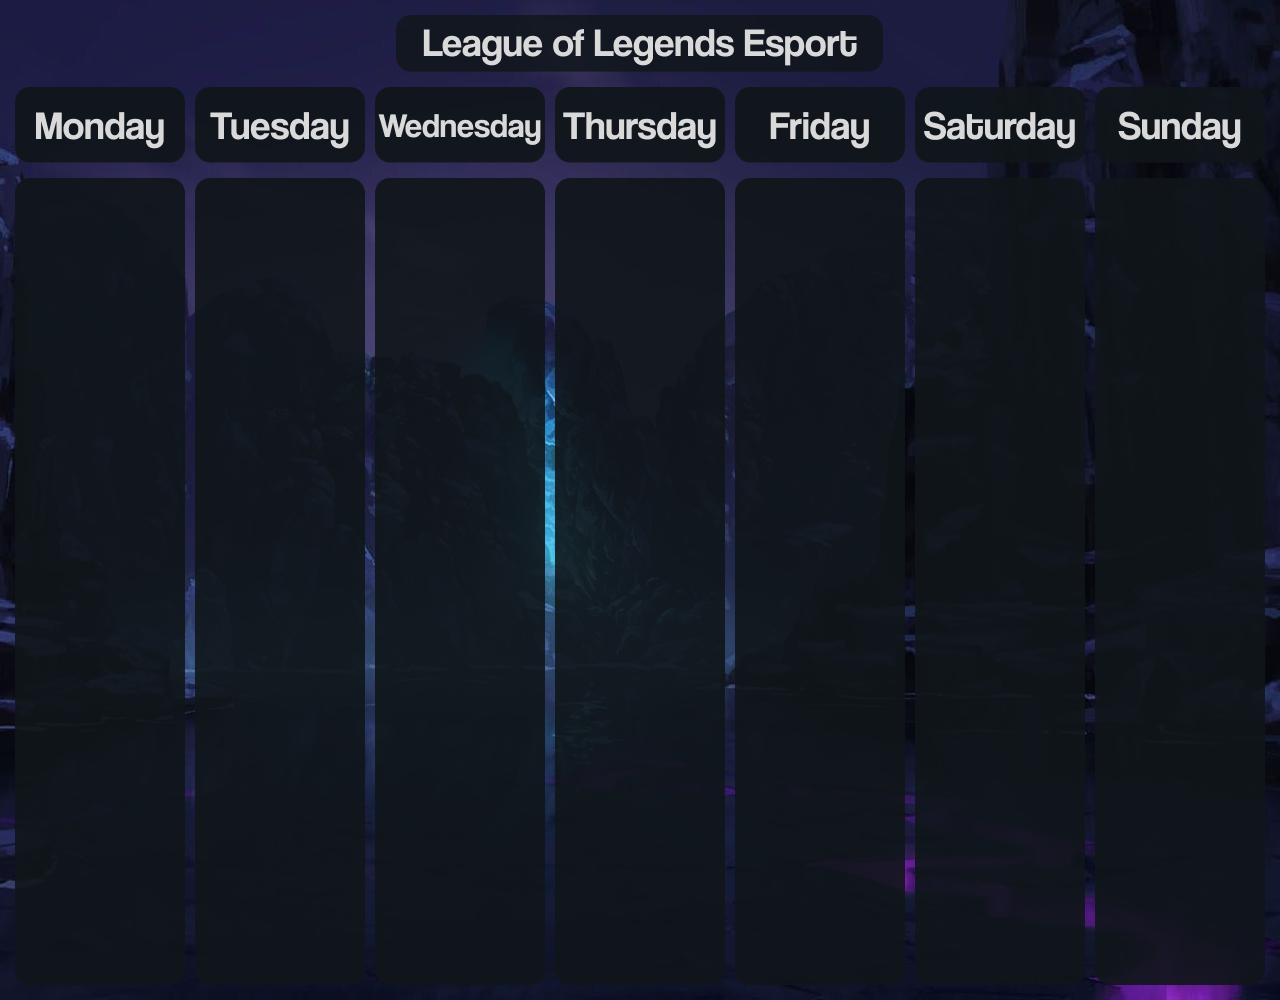
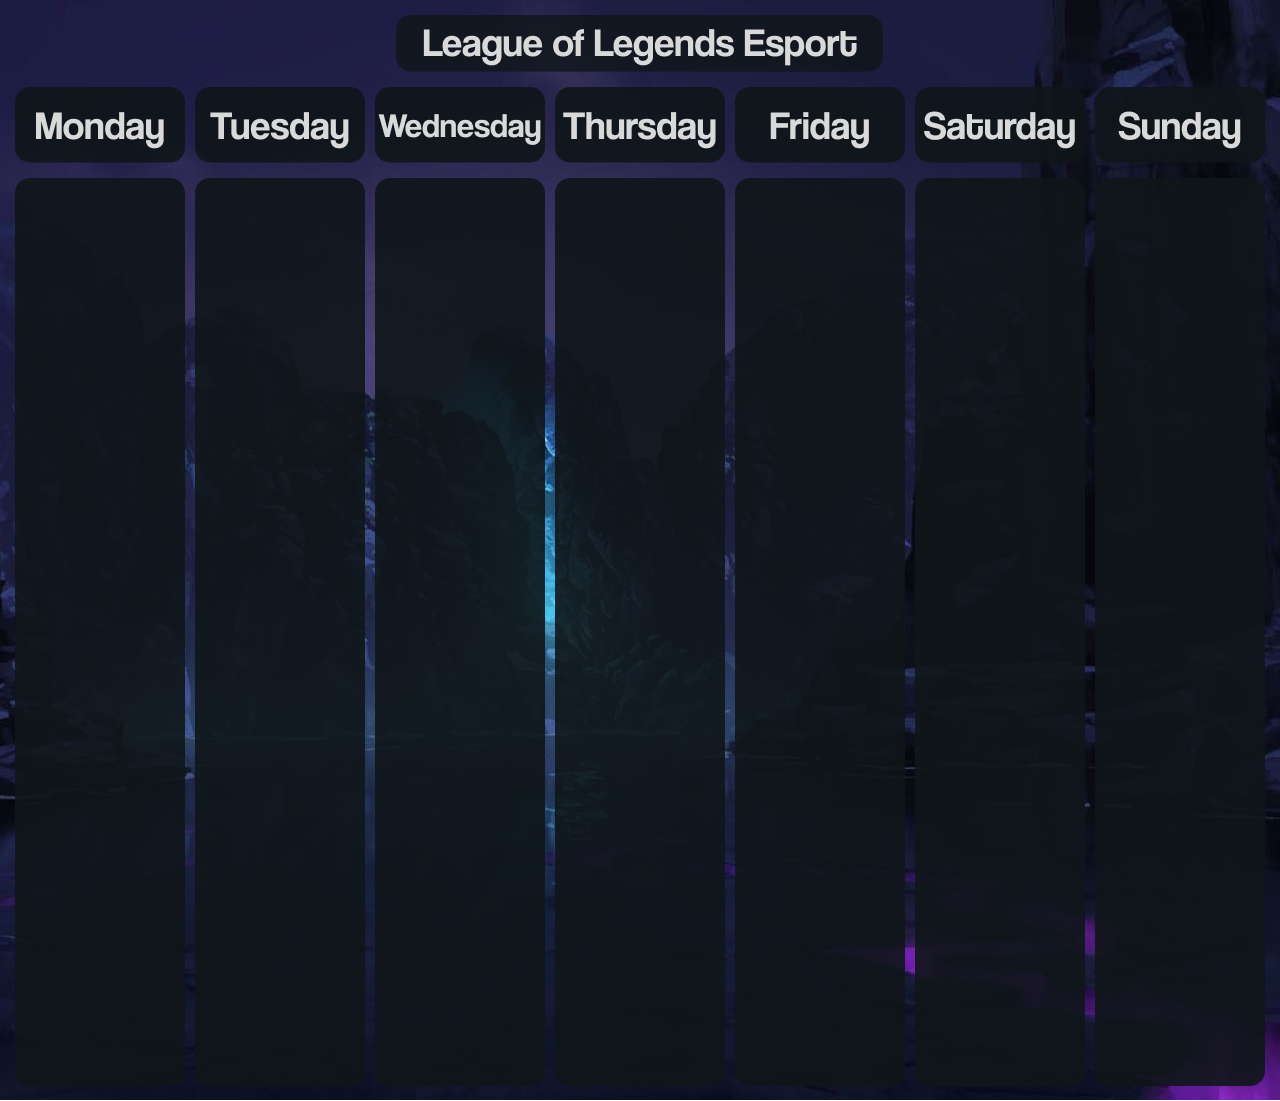
[ADD] refresh planning

diff --git a/bot/utils/sendPlanning.py b/bot/utils/sendPlanning.py
@@ -1,0 +1,87 @@
+import datetime
+from io import BytesIO
+import logging
+
+import discord
+from utils.planningFormattor import getFormattedPlanning
+
+from utils.types import Setup
+
+_logger = logging.getLogger(__name__)
+
+
+def getSchedulesByDayOnCurrentWeek(schedules: list[dict]):
+    today = datetime.date.today()
+    startOfWeek = today - datetime.timedelta(days=today.weekday())
+    weekSchedules = [startOfWeek]
+    weekSchedules.extend([startOfWeek + datetime.timedelta(days=i)
+                         for i in range(1, 7)])
+    weekGames: dict[str, list[dict]] = {}
+    for schedule in schedules:
+        date = datetime.date.fromisoformat(
+            schedule.get('startTime', '').split('T')[0])
+        if date in weekSchedules:
+            weekGames.setdefault(date.isoformat(), []).append(schedule)
+    return weekGames
+
+
+async def sendPlanning(self: Setup):
+    for guild in self.db.getGuilds():
+        g = self.get_guild(int(guild.id))
+        if g is None:
+            self.db.deleteGuild(guild.id)
+            return
+        channel = g.get_channel(int(guild.scheduler_channel))
+        if channel is None:
+            self.db.updateGuildSchedulerChannel(guild.id, None)
+            return
+        if guild.last_message is not None:
+            try:
+                message = await channel.fetch_message(int(guild.last_message))
+                await message.delete()
+            except discord.errors.NotFound:
+                pass
+        schedules = self.api.getSchedules(
+            guild.language, guild.followed_leagues
+        ).get('data', {}).get('schedule', {}).get('events', [])
+        planning = getFormattedPlanning(
+            guild.language,
+            getSchedulesByDayOnCurrentWeek(schedules)
+        )
+        with BytesIO() as image_binary:
+            planning.save(image_binary, 'PNG')
+            image_binary.seek(0)
+            new_message = await channel.send(file=discord.File(fp=image_binary, filename='planning.png'))
+            self.db.updatePlanningLastMessage(guild.id, new_message.id)
+
+async def refreshPlanning(self: Setup):
+    for guild in self.db.getGuilds():
+        g = self.get_guild(int(guild.id))
+        if g is None:
+            self.db.deleteGuild(guild.id)
+            return
+        channel = g.get_channel(int(guild.scheduler_channel))
+        if channel is None:
+            self.db.updateGuildSchedulerChannel(guild.id, None)
+            return
+        message = None
+        if guild.last_message is not None:
+            try:
+                message = await channel.fetch_message(int(guild.last_message))
+            except discord.errors.NotFound:
+                message = None
+        if message is None:
+            await sendPlanning(self)
+            return
+        schedules = self.api.getSchedules(
+            guild.language, guild.followed_leagues
+        ).get('data', {}).get('schedule', {}).get('events', [])
+        planning = getFormattedPlanning(
+            guild.language,
+            getSchedulesByDayOnCurrentWeek(schedules)
+        )
+        with BytesIO() as image_binary:
+            planning.save(image_binary, 'PNG')
+            image_binary.seek(0)
+            _logger.debug('editing planning')
+            await message.edit(attachments=[discord.File(fp=image_binary, filename='planning.png')])

diff --git a/bot/main.py b/bot/main.py
@@ -11,8 +11,8 @@ import cogs
 from utils.riotApiRequests import riotApiRequests
 from utils.SQLRequests import SQLRequests
 from events import onReady, onMemberJoin, onMemberLeave
-from utils.cleanSaveFolder import cleanSaveFolder
 from utils.exportDatabase import exportDataBase
+from utils.sendPlanning import sendPlanning, refreshPlanning
 
 
 discord.utils.setup_logging()
@@ -36,27 +36,40 @@ class Setup(commands.Bot):
                 logging.info(f"{cogName} commands loaded!")
         if self.db is not None:
             self.exportDataBaseTask.start()
-            self.send_schedules.start()
+            self.send_planning.start()
+            self.refresh_planning.start()
 
     @tasks.loop(hours=168)
-    async def send_schedules(self):
-        logging.info("Sending schedules...")
+    async def send_planning(self):
+        await sendPlanning(self)
 
-    @send_schedules.before_loop
-    async def before_send_schedules(self):
+    @send_planning.before_loop
+    async def before_send_planning(self):
         await self.wait_until_ready()
         now = datetime.datetime.now()
         day = now.weekday()
         target = now + datetime.timedelta(days=7 - day)
         target = target.replace(hour=8, minute=0, second=0, microsecond=0)
         delta = target - now
-        logging.info(f"Waiting {target.strftime('%A %d %m %y')} before sending next schedules...")
+        await asyncio.sleep(delta.seconds)
+
+
+    @tasks.loop(hours=24)
+    async def refresh_planning(self):
+        await refreshPlanning(self)
+
+    @refresh_planning.before_loop
+    async def before_refresh_planning(self):
+        await self.wait_until_ready()
+        now = datetime.datetime.now()
+        target = now + datetime.timedelta(days=1)
+        target = target.replace(hour=0, minute=0, second=0, microsecond=0)
+        delta = target - now
         await asyncio.sleep(delta.seconds)
 
     @tasks.loop(hours=1)
     async def exportDataBaseTask(self):
         exportDataBase()
-        cleanSaveFolder()
 
     @exportDataBaseTask.before_loop
     async def before_exportDataBaseTask(self):
@@ -78,7 +91,6 @@ def main():
         bot.run(bot.token, reconnect=True, log_handler=None)
     except KeyboardInterrupt:
         logging.info("\nExiting...")
-        exportDataBase()
         bot.session.close()
         bot.db.close()
 

diff --git a/bot/utils/SQLRequests.py b/bot/utils/SQLRequests.py
@@ -57,6 +57,7 @@ class SQLRequests(MySQLConnection):
         return self.__cursor.fetchone()[0]
 
     def updateGuildPreferredLanguage(self, guild_id: int, language: str):
+        _logger.info(f"Updating guild: {guild_id} preferred language to: {language}")
         request = f"""
             UPDATE guilds
             SET language = "{language}"
@@ -66,16 +67,6 @@ class SQLRequests(MySQLConnection):
         self.__cursor.execute(request)
         self.commit()
         _logger.info(f"Updated guild: {guild_id} preferred language to: {language}")
-
-    def getGuildSchedulerChannel(self, guild_id: int) -> str:
-        request = f"""
-            SELECT scheduler_channel
-            FROM guilds
-            WHERE id = "{guild_id}"
-        """
-        self.__clearCache()
-        self.__cursor.execute(request)
-        return self.__cursor.fetchone()[0]
 
     def updateGuildSchedulerChannel(self, guild_id: int, channel_id: int):
         request = f"""
@@ -88,15 +79,16 @@ class SQLRequests(MySQLConnection):
         self.commit()
         _logger.info(f"Updated guild: {guild_id} scheduler channel to channel: {channel_id}")
 
-    def getGuildFollowedLeagues(self, guild_id: int) -> list[str]:
+    def updatePlanningLastMessage(self, guild_id: int, new_message_id: int):
         request = f"""
-            SELECT followed_leagues
-            FROM guilds
+            UPDATE guilds
+            SET last_message = "{new_message_id}"
             WHERE id = "{guild_id}"
         """
         self.__clearCache()
         self.__cursor.execute(request)
-        return self.__cursor.fetchone()[0].split(",")
+        self.commit()
+        _logger.info(f"Updated guild: {guild_id} last message id to: {new_message_id}")
 
     def updateGuildFollowedLeagues(self, guild_id: int, leagues: list[str]):
         request = f"""

diff --git a/bot/cogs/Esport.py b/bot/cogs/Esport.py
@@ -2,10 +2,9 @@ import logging
 from discord.ext import commands
 from discord import app_commands, Interaction, Object
 
-from commands.esport import setupScheduler
+from commands.esport import setupPlanningSender
 
 from utils.types import Setup
-from utils import sendScheduler
 
 _logger = logging.getLogger(__name__)
 
@@ -24,7 +23,7 @@ class Esport(commands.Cog, description="Command group for esport commands"):
     )
     async def setup_scheduler(self, ctx: Interaction, channel: str):
         _logger.info(f"Command setup_scheduler executed by {ctx.user}")
-        await setupScheduler.setupScheduler(self.bot, ctx, channel)
+        await setupPlanningSender.setupPlanningSender(self.bot, ctx, channel)
 
     @setup_scheduler.error
     async def setup_scheduler_error(self, ctx: Interaction, error):
@@ -36,11 +35,6 @@ class Esport(commands.Cog, description="Command group for esport commands"):
             )
         else:
             await ctx.response.send_message("An error occured", ephemeral=True)
-
-    @app_commands.command(name="test")
-    async def test(self, ctx: Interaction):
-        await sendScheduler.sendScheduler(self.bot)
-        await ctx.response.send_message("done", ephemeral=True)
 
 async def setup(bot: Setup):
     await bot.add_cog(Esport(bot), guilds=[Object(id=bot.guild_id)])

diff --git a/bot/utils/planningFormattor.py b/bot/utils/planningFormattor.py
@@ -1,9 +1,14 @@
 
 import datetime
 from io import BytesIO
+import os
 from PIL import Image, ImageDraw
 import requests
 from utils.planningConst import *
+import logging
+
+
+_logger = logging.getLogger(__name__)
 
 
 def splitAmPm(datas: list[dict]):
@@ -23,10 +28,17 @@ def drawGame(
     x: int,
     y: int,
     timetable: Image,
-    team_images: tuple[str, str],
+    teams: tuple[str, str],
 ):
-    for team in team_images:
-        img = Image.open(BytesIO(requests.get(team).content)).resize(icon_size)
+    for team in teams:
+        if os.path.exists(f"assets/teamsIcons/{team['code']}.png"):
+            img = Image.open(
+                f"assets/teamsIcons/{team['code']}.png").resize(icon_size)
+        else:
+            img = Image.open(BytesIO(requests.get(team['image']).content))
+            img.save(f"assets/teamsIcons/{team['code']}.png")
+            _logger.info(f"Saved logo of {team['code']}")
+            img = img.resize(icon_size)
         timetable.paste(img, (x, y), img)
         x += icon_b + margin
 
@@ -107,7 +119,7 @@ def drawHalfDayMatches(
         drawGame(
             x, y,
             timetable,
-            (match['teams'][0]['image'], match['teams'][1]['image'])
+            match['teams']
         )
 
 

diff --git a/bot/utils/exportDatabase.py b/bot/utils/exportDatabase.py
@@ -1,17 +1,29 @@
-from datetime import date
-from logging import getLogger
+from datetime import date, datetime
+import logging
 import os
 import subprocess
 
 
-_logger = getLogger(__name__)
+_logger = logging.getLogger(__name__)
 
+def cleanSaveFolder():
+    while len(os.listdir("./db/db_saves")) > 7:
+        oldest_file = min([datetime.strptime(f, "%d-%m-%Y.sql") for f in os.listdir("./db/db_saves") if f != "init.sql"])
+        process = subprocess.Popen(
+            f"rm -rf ./db/db_saves/{oldest_file.strftime('%d-%m-%Y')}.sql",
+            stderr=subprocess.DEVNULL,
+            shell=True
+        )
+        process.wait()
+        _logger.info(f"Oldest save: ./db/db_saves/\"{oldest_file.strftime('%d-%m-%Y')}.sql\" deleted")
 
 def exportDataBase():
     today = date.today().strftime("%d-%m-%Y")
-    subprocess.Popen(
+    process = subprocess.Popen(
         f"mysqldump -p'{os.getenv('DB_ROOT_PASS')}' -h {os.getenv('DB_HOST')} {os.getenv('DB_NAME')} > ./db/db_saves/{today}.sql;"
         f"rm -rf ./db/db_saves/init.sql; cp ./db/db_saves/{today}.sql ./db/db_saves/init.sql",
         shell=True
     )
+    process.wait()
     _logger.info(f"save done at ./db/db_saves/{today}.sql")
+    cleanSaveFolder()

diff --git a/bot/cogs/Diverse.py b/bot/cogs/Diverse.py
@@ -6,7 +6,7 @@ from utils.riotApiRessources import LANGUAGES
 
 from utils.types import Setup
 
-from commands.diverse import ping, help
+from commands.diverse import ping, help, setupLanguage
 
 _logger = logging.getLogger(__name__)
 
@@ -34,7 +34,7 @@ class Diverse(commands.Cog, description="Groupe de commande Divers"):
     )
     async def setup_language(self, ctx: Interaction, language: str):
         _logger.info(f"setup_language command used by {ctx.user} with language {language}")
-        await ctx.response.send_message("Language changed successfully !", ephemeral=True)
+        await setupLanguage.setupLanguage(self.bot, ctx, language)
 
 
 async def setup(bot: Setup):

diff --git a/bot/utils/customClasses.py b/bot/utils/customClasses.py
@@ -1,5 +1,3 @@
-import logging
-
 
 class dbGuild:
     def __init__(
@@ -7,12 +5,11 @@ class dbGuild:
         guild_id: str,
         language: str,
         followed_leagues: str,
-        scheduler_channel: str
+        scheduler_channel: str,
+        last_message: str,
     ):
         self.id = guild_id
         self.language = language
         self.followed_leagues = followed_leagues.split(',')
         self.scheduler_channel = scheduler_channel
-
-    def __str__(self):
-        return f"Guild: {self.id}, language: {self.language}, followed leagues: {self.followed_leagues}, scheduler channel: {self.scheduler_channel}"
+        self.last_message = last_message

diff --git a/bot/commands/esport/setupPlanningSender.py b/bot/commands/esport/setupPlanningSender.py
@@ -5,7 +5,6 @@ from utils.getChannelByName import getChannelByName
 
 from utils.types import Setup
 
-_logger = logging.getLogger(__name__)
 SORT_ORDER = {
     'fr-FR': [
         'INTERNATIONAL',
@@ -39,7 +38,7 @@ SORT_ORDER = {
     ]}
 
 
-async def setupScheduler(bot: Setup, ctx: Interaction, channel_id: str):
+async def setupPlanningSender(bot: Setup, ctx: Interaction, channel_id: str):
     if channel_id.isdigit():
         channel = ctx.guild.get_channel(int(channel_id))
     else:

diff --git a/bot/commands/diverse/setupLanguage.py b/bot/commands/diverse/setupLanguage.py
@@ -1,0 +1,10 @@
+from discord import Interaction
+from main import Setup
+
+
+async def setupLanguage(self: Setup, ctx: Interaction, language: str):
+    self.db.updateGuildPreferredLanguage(ctx.guild_id, language)
+    await ctx.response.send_message(
+        "Language updated successfully !",
+        ephemeral=True
+    )

diff --git a/bot/utils/planningConst.py b/bot/utils/planningConst.py
@@ -6,7 +6,7 @@ hour_font = ImageFont.truetype("assets/coolvetica_rg.ttf", size=20)
 top = 178
 left = 15
 content_x = 170
-content_y = 807
+content_y = 907
 icon_b = 70
 icon_size = (icon_b, icon_b)
 white = (217, 217, 217)

diff --git a/bot/utils/createSelect.py b/bot/utils/createSelect.py
@@ -1,7 +1,4 @@
-import logging
 import discord
-
-_logger = logging.getLogger(__name__)
 
 class createSelect(discord.ui.Select):
     def __init__(
